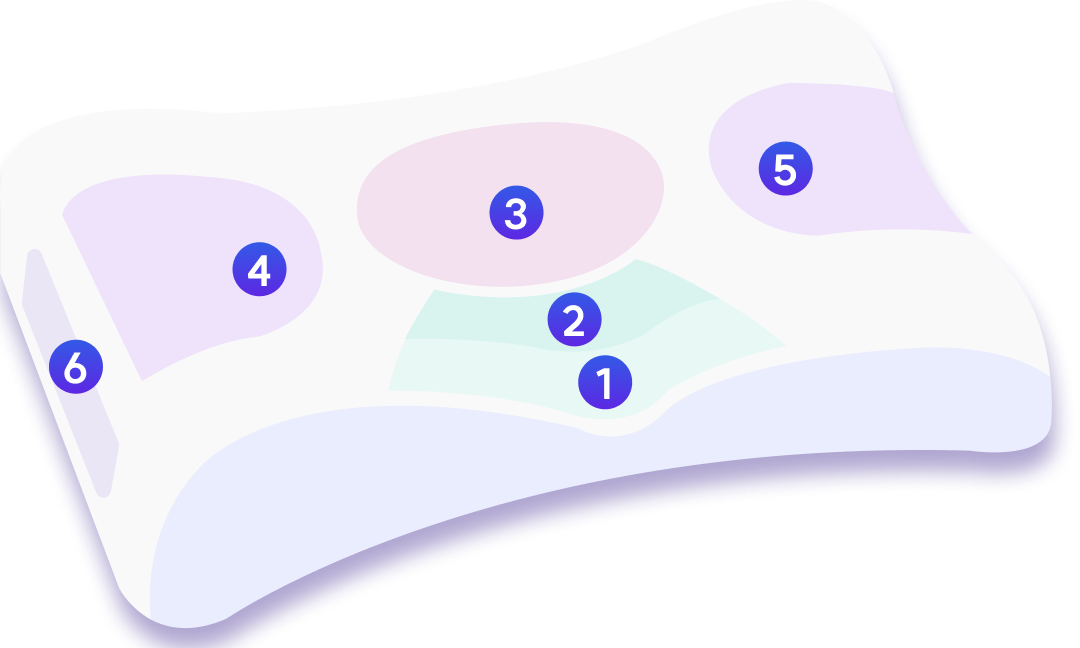
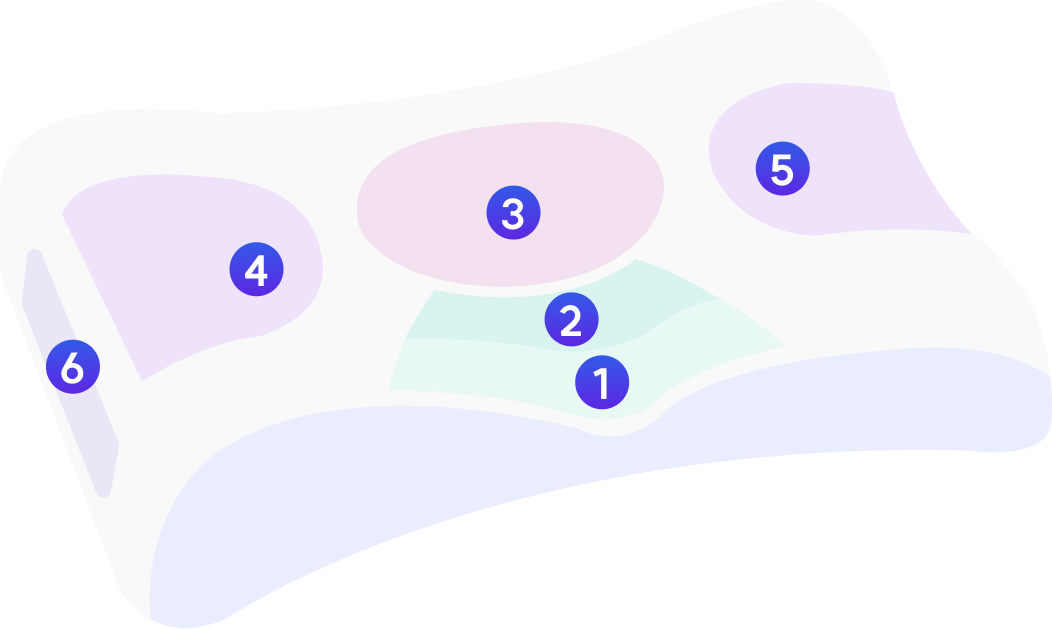
디자인 세부조정 완료

diff --git a/src/screens/DetailDeviceScreen.tsx b/src/screens/DetailDeviceScreen.tsx
@@ -415,7 +415,7 @@ const styles = StyleSheet.create({
     paddingHorizontal: 32,
   },
   mainTitle: {
-    marginTop: 136,
+    marginTop: 100,
     textAlign: 'center',
     fontSize: 30,
     fontWeight: 'bold',
@@ -439,7 +439,9 @@ const styles = StyleSheet.create({
   },
   pillowImage: {
     maxWidth: '100%',
-    maxHeight: '50%',
+    maxHeight: '30%',
+    marginTop: 64,
+    marginBottom: 40,
   },
 
   section1: {
